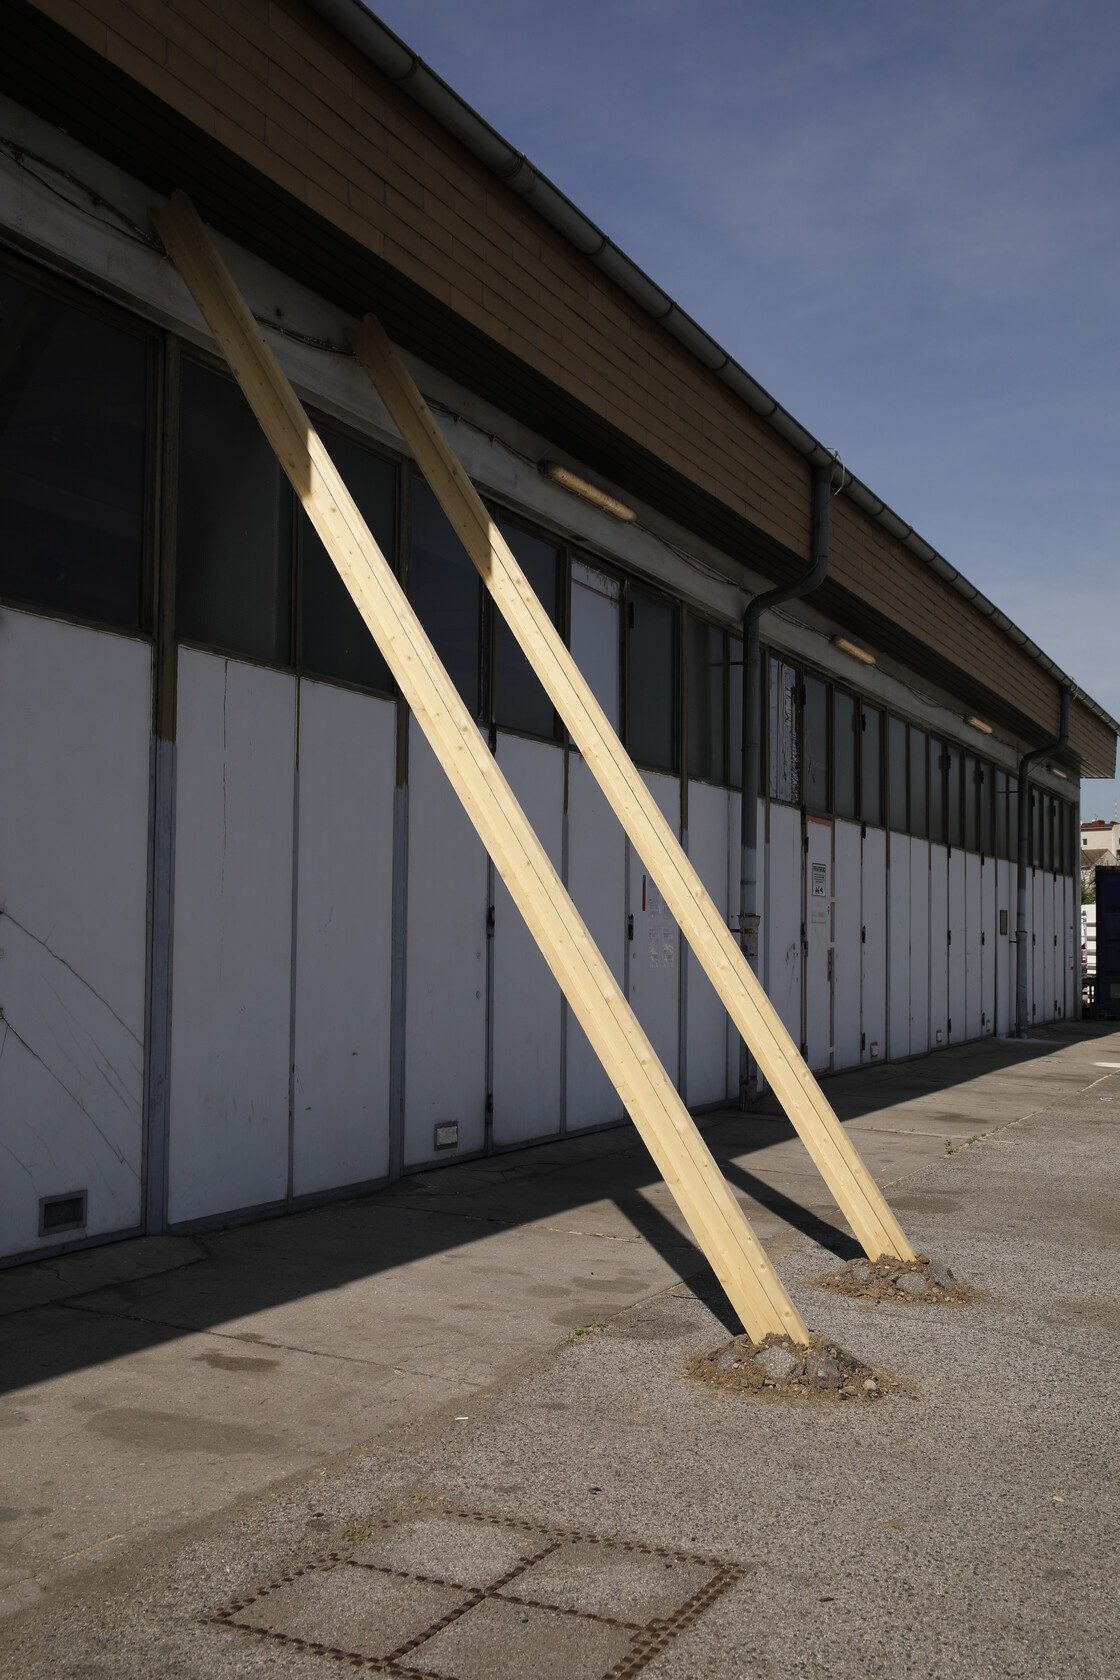
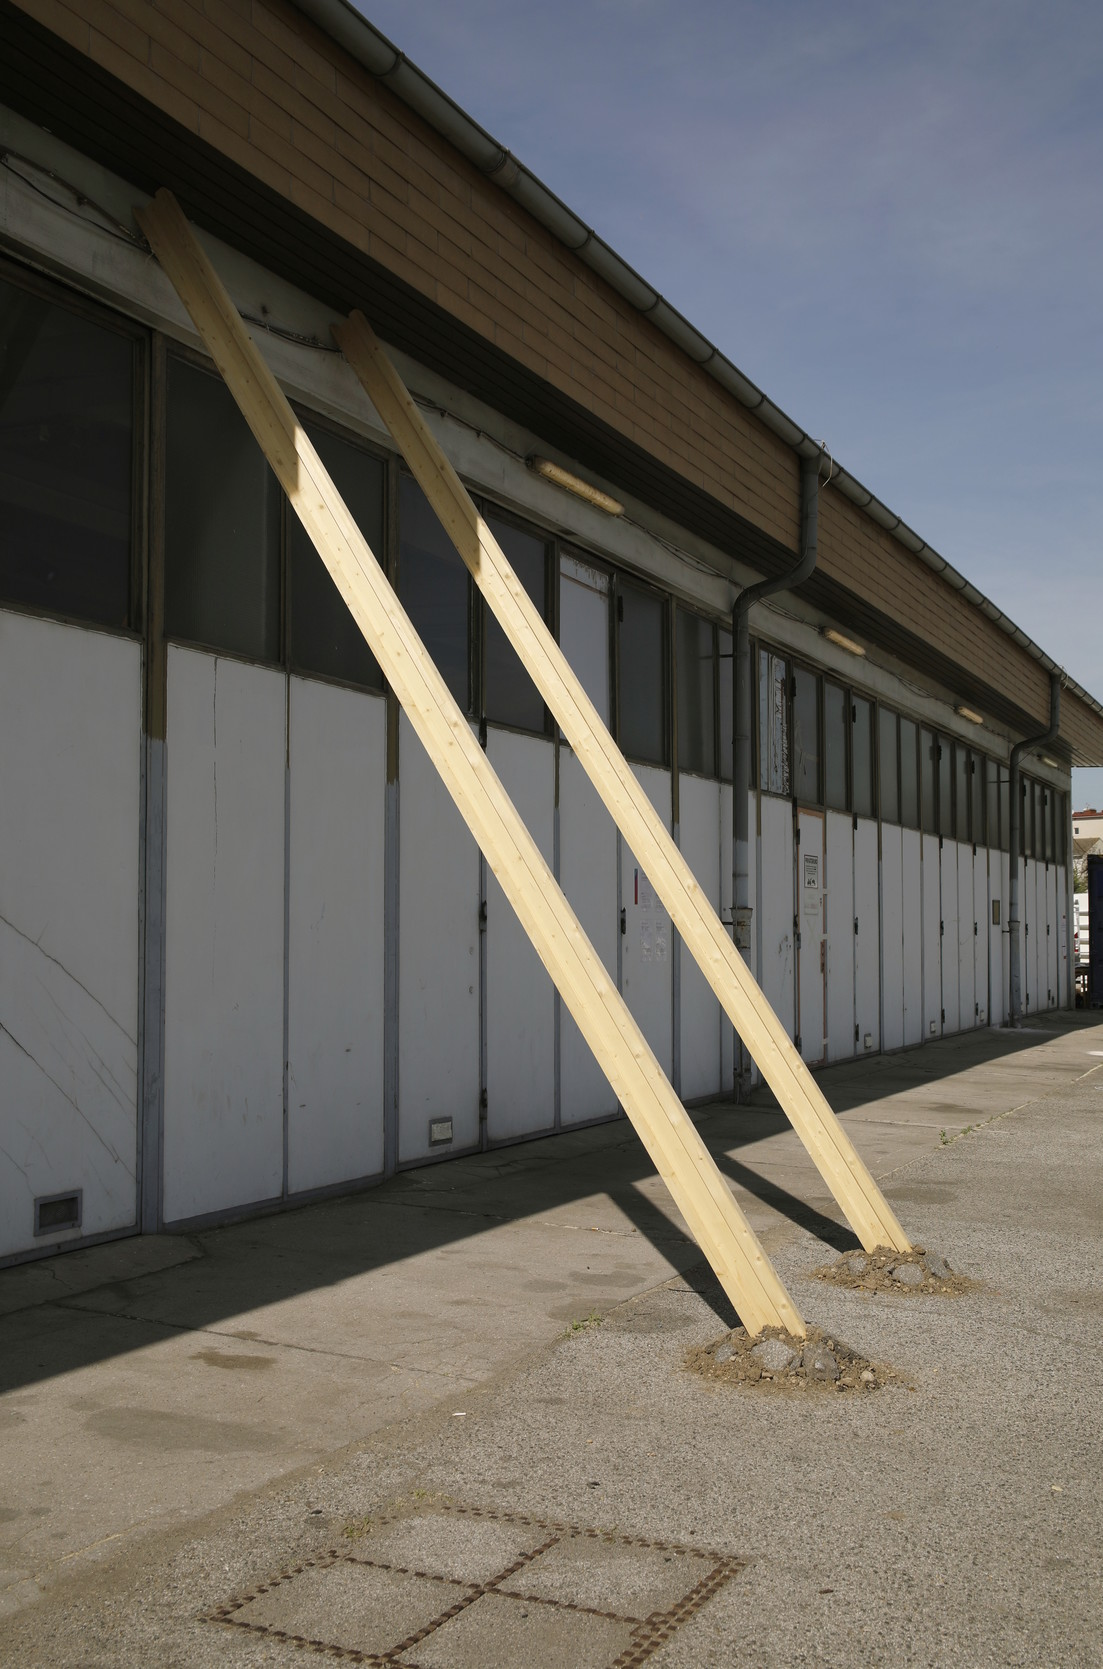
added dorthin

diff --git a/portfolio.md b/portfolio.md
@@ -25,6 +25,9 @@ sortname: portfolio
     <ol style="list-style-type:none;margin-left:-1em;">
       <table style="width:100%;border-collapse:collapse;">
         <tr>
+          <td style="width:5em;vertical-align:top;">2024</td> <td><a href="./#dorthin">»dorthin«</a><span style="font-weight:normal;">, part of the TransArts contribution <i>these tires are made for walking</i> to the Klima Biennale Wien, Nordwestbahnhof, Vienna, Austria</span></td>
+        </tr>
+        <tr>
           <td style="width:5em;vertical-align:top;">2023</td> <td><a href="./#Vulnerable-Embrace">»Vulnerable Embrace«</a><span style="font-weight:normal;">, 2<sup style="vertical-align:top;">nd</sup> Floor space of the TransArts Class at the Angewandte VZA7, Vienna, Austria</span></td>
         </tr>
         <tr>
@@ -140,6 +143,38 @@ From 2016 – 2019, in the <a href="http://arcades-network.eu/">ARCADES Network<
 <hr>
 
 <h2 style="font-size: 1.75em"><a class="anchor" id="Art"></a>Art <sup><a href="./#" style="font-size: 0.75em;">top</a></sup></h2>
+
+<h2><a class="anchor" id="dorthin"></a>»dorthin«, part of the TransArts contribution <i>these tires are made for walking</i> to the Klima Biennale Wien, Nordwestbahnhof, Vienna, Austria (6.4. – 14.7.24) [<a href="https://www.dieangewandte.at/ausstellungen/klima_biennale_wien_-_festivalareal_nordwestbahnhof">press release</a>] <sup><a href="./#" style="font-size: 0.75em;">top</a></sup></h2>
+<i>wood</i>
+<p>
+  Train tracks made of wood are planted askew into the ground. Directed toward the sky that they will never reach, their stunted lengths contrast the concept of the limitless potential of growth: formed, processed wood juxtaposes its living counterpart, as that counterpart's growth confronts its shaped death.  Train tracks, as a symbol of quick socioeconomic expansion and growth, find their finiteness against the slowly expanding and growing of a living tree.<br>
+
+  Part of the work involved the performative transport by foot of the train tracks to the location for installation, and then a solo performative transport by train for a short train track.
+  <table style="width:75%;margin-left:auto;margin-right:auto;">
+    <tr>
+      <td style="width:25%"><a href="/art/exhibitions/2024/dorthin/resized/dorthin_bridge.jpg"><img src="/art/exhibitions/2024/dorthin/thumbs/dorthin_bridge.jpg" style="width:100%;"></a></td>
+    </tr>
+  </table>
+  <table style="width:100%;margin-left:auto;margin-right:auto;">
+    <tr>
+      <td style="width:25%"><a href="/art/exhibitions/2024/dorthin/dorthin_transport.gif"><img src="/art/exhibitions/2024/dorthin/thumbs/dorthin_transport.gif" style="width:100%;"></a></td>
+      <td style="width:25%"><a href="/art/exhibitions/2024/dorthin/dorthin_short-transport.gif"><img src="/art/exhibitions/2024/dorthin/thumbs/dorthin_short-transport.gif" style="width:100%;"></a></td>
+    </tr>
+  </table>
+  <table style="width:100%;margin-left:auto;margin-right:auto;">
+    <tr>
+      <td style="width:25%"><a href="/art/exhibitions/2024/dorthin/resized/dorthin_front.jpg"><img src="/art/exhibitions/2024/dorthin/thumbs/dorthin_front.jpg" style="width:100%;"></a></td>
+      <td style="width:25%"><a href="/art/exhibitions/2024/dorthin/resized/dorthin_side.jpg"><img src="/art/exhibitions/2024/dorthin/thumbs/dorthin_side-crop.jpg" style="width:100%;"></a></td>
+      <td style="width:25%"><a href="/art/exhibitions/2024/dorthin/resized/dorthin_scale.jpg"><img src="/art/exhibitions/2024/dorthin/thumbs/dorthin_scale-crop.jpg" style="width:100%;"></a></td>
+    </tr>
+  </table>
+  <table style="width:75%;margin-left:auto;margin-right:auto;">
+    <tr>
+      <td style="width:25%"><a href="/art/exhibitions/2024/dorthin/resized/dorthin_ground.jpg"><img src="/art/exhibitions/2024/dorthin/thumbs/dorthin_ground.jpg" style="width:100%;"></a></td>
+    </tr>
+  </table>
+</p>
+<br>
 
 <h2><a class="anchor" id="Vulnerable-Embrace"></a>»Vulnerable Embrace«, 2<sup style="vertical-align:top;">nd</sup> Floor space of the TransArts Class at the Angewandte VZA7, Vienna, Austria (8.11.22 – 6.2.23) [<a href="https://www.dieangewandte.at/ausstellungen/transarts_-_michael_r_jimenez_vulnerable_embrace">press release</a>] <sup><a href="./#" style="font-size: 0.75em;">top</a></sup></h2>
 <i>doors, balloon, doorstops, needle, sign</i>
